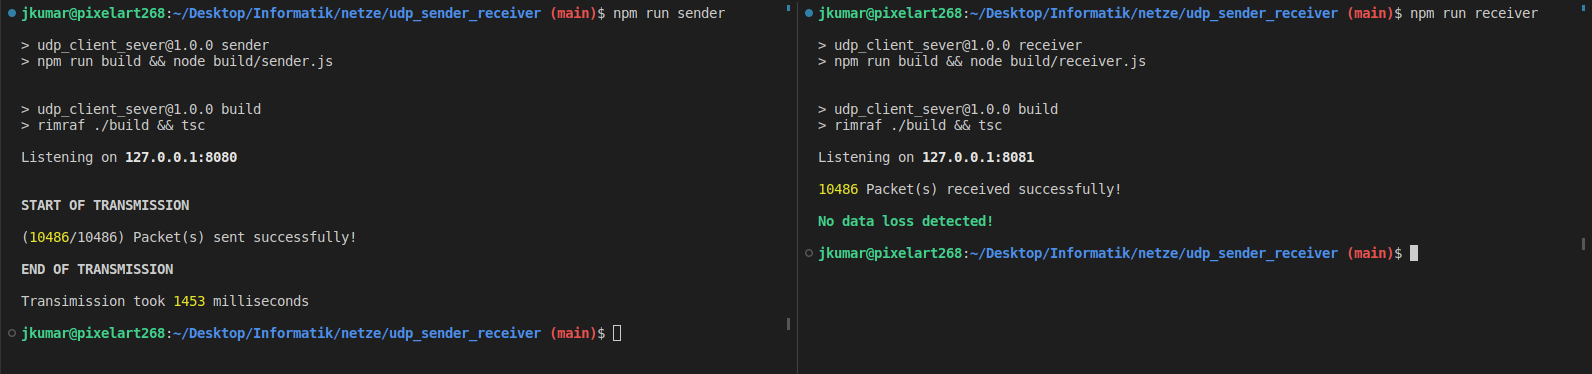
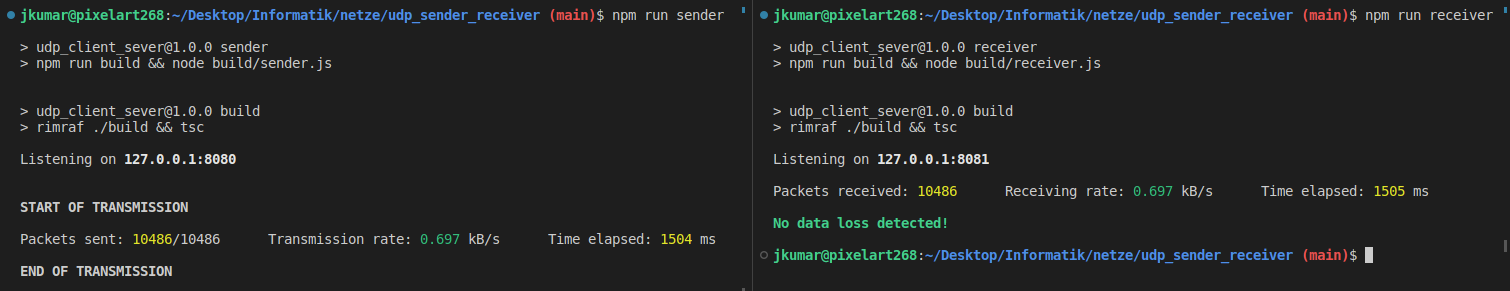
readme update

diff --git a/src/sender.ts b/src/sender.ts
@@ -8,7 +8,7 @@ import chunks from 'buffer-chunks';
 import chalk from 'chalk';
 
 // Setting packet size
-const packetSize = PACKET_SIZE.MEDIUM;
+const packetSize = PACKET_SIZE.SMALL;
 
 // Creating sender socket
 const sender = UDP.createSocket({ type: 'udp4', sendBufferSize: packetSize });
@@ -59,8 +59,8 @@ const sendPacket = (packet: Buffer) => {
     }
 
     if (noOfPacketsSent === packets.length) {
-       // Setting end time
-       endTime = Date.now();
+      // Setting end time
+      endTime = Date.now();
 
       // Closing sender socket
       console.log("\n");
@@ -104,10 +104,10 @@ sender.on('message', (message, info) => {
     sendPacket(packets[0]);
   }
 
-  if(noOfPacketsSent > 0) {
+  if (noOfPacketsSent > 0) {
     const prevPacketTransmissionID = packets[noOfPacketsSent - 1].subarray(0, TRANSMISSION_ID_SIZE);
     const prevPacketSeqNo = packets[noOfPacketsSent - 1].subarray(SEQUENCE_NUMBER_OFFSET, SEQUENCE_NUMBER_OFFSET + SEQUENCE_NUMBER_SIZE);
-    
+
     const successfulTransmission = message.equals(Buffer.concat([prevPacketTransmissionID, prevPacketSeqNo]));
 
     if (successfulTransmission) {
@@ -117,12 +117,12 @@ sender.on('message', (message, info) => {
       // Sending next packet
       sendPacket(packets[noOfPacketsSent]);
     }
-  
+
     // Resending previous packet if transmission was unsuccessful
-    if(!successfulTransmission) {
+    if (!successfulTransmission) {
       retryAttempts += 1;
 
-      if(retryAttempts > MAX_RETRIES) {
+      if (retryAttempts > MAX_RETRIES) {
         console.log("\n");
         console.log(`${chalk.red.bold("ERROR:")} Maximum number of retries reached. Ending transmisson...\n`);
 

diff --git a/src/receiver.ts b/src/receiver.ts
@@ -17,7 +17,7 @@ import chalk from 'chalk';
 
 
 // Setting packet size
-const packetSize = PACKET_SIZE.MEDIUM;
+const packetSize = PACKET_SIZE.SMALL;
 
 // Creating buffer to store message
 let buffer = Buffer.from([]);
